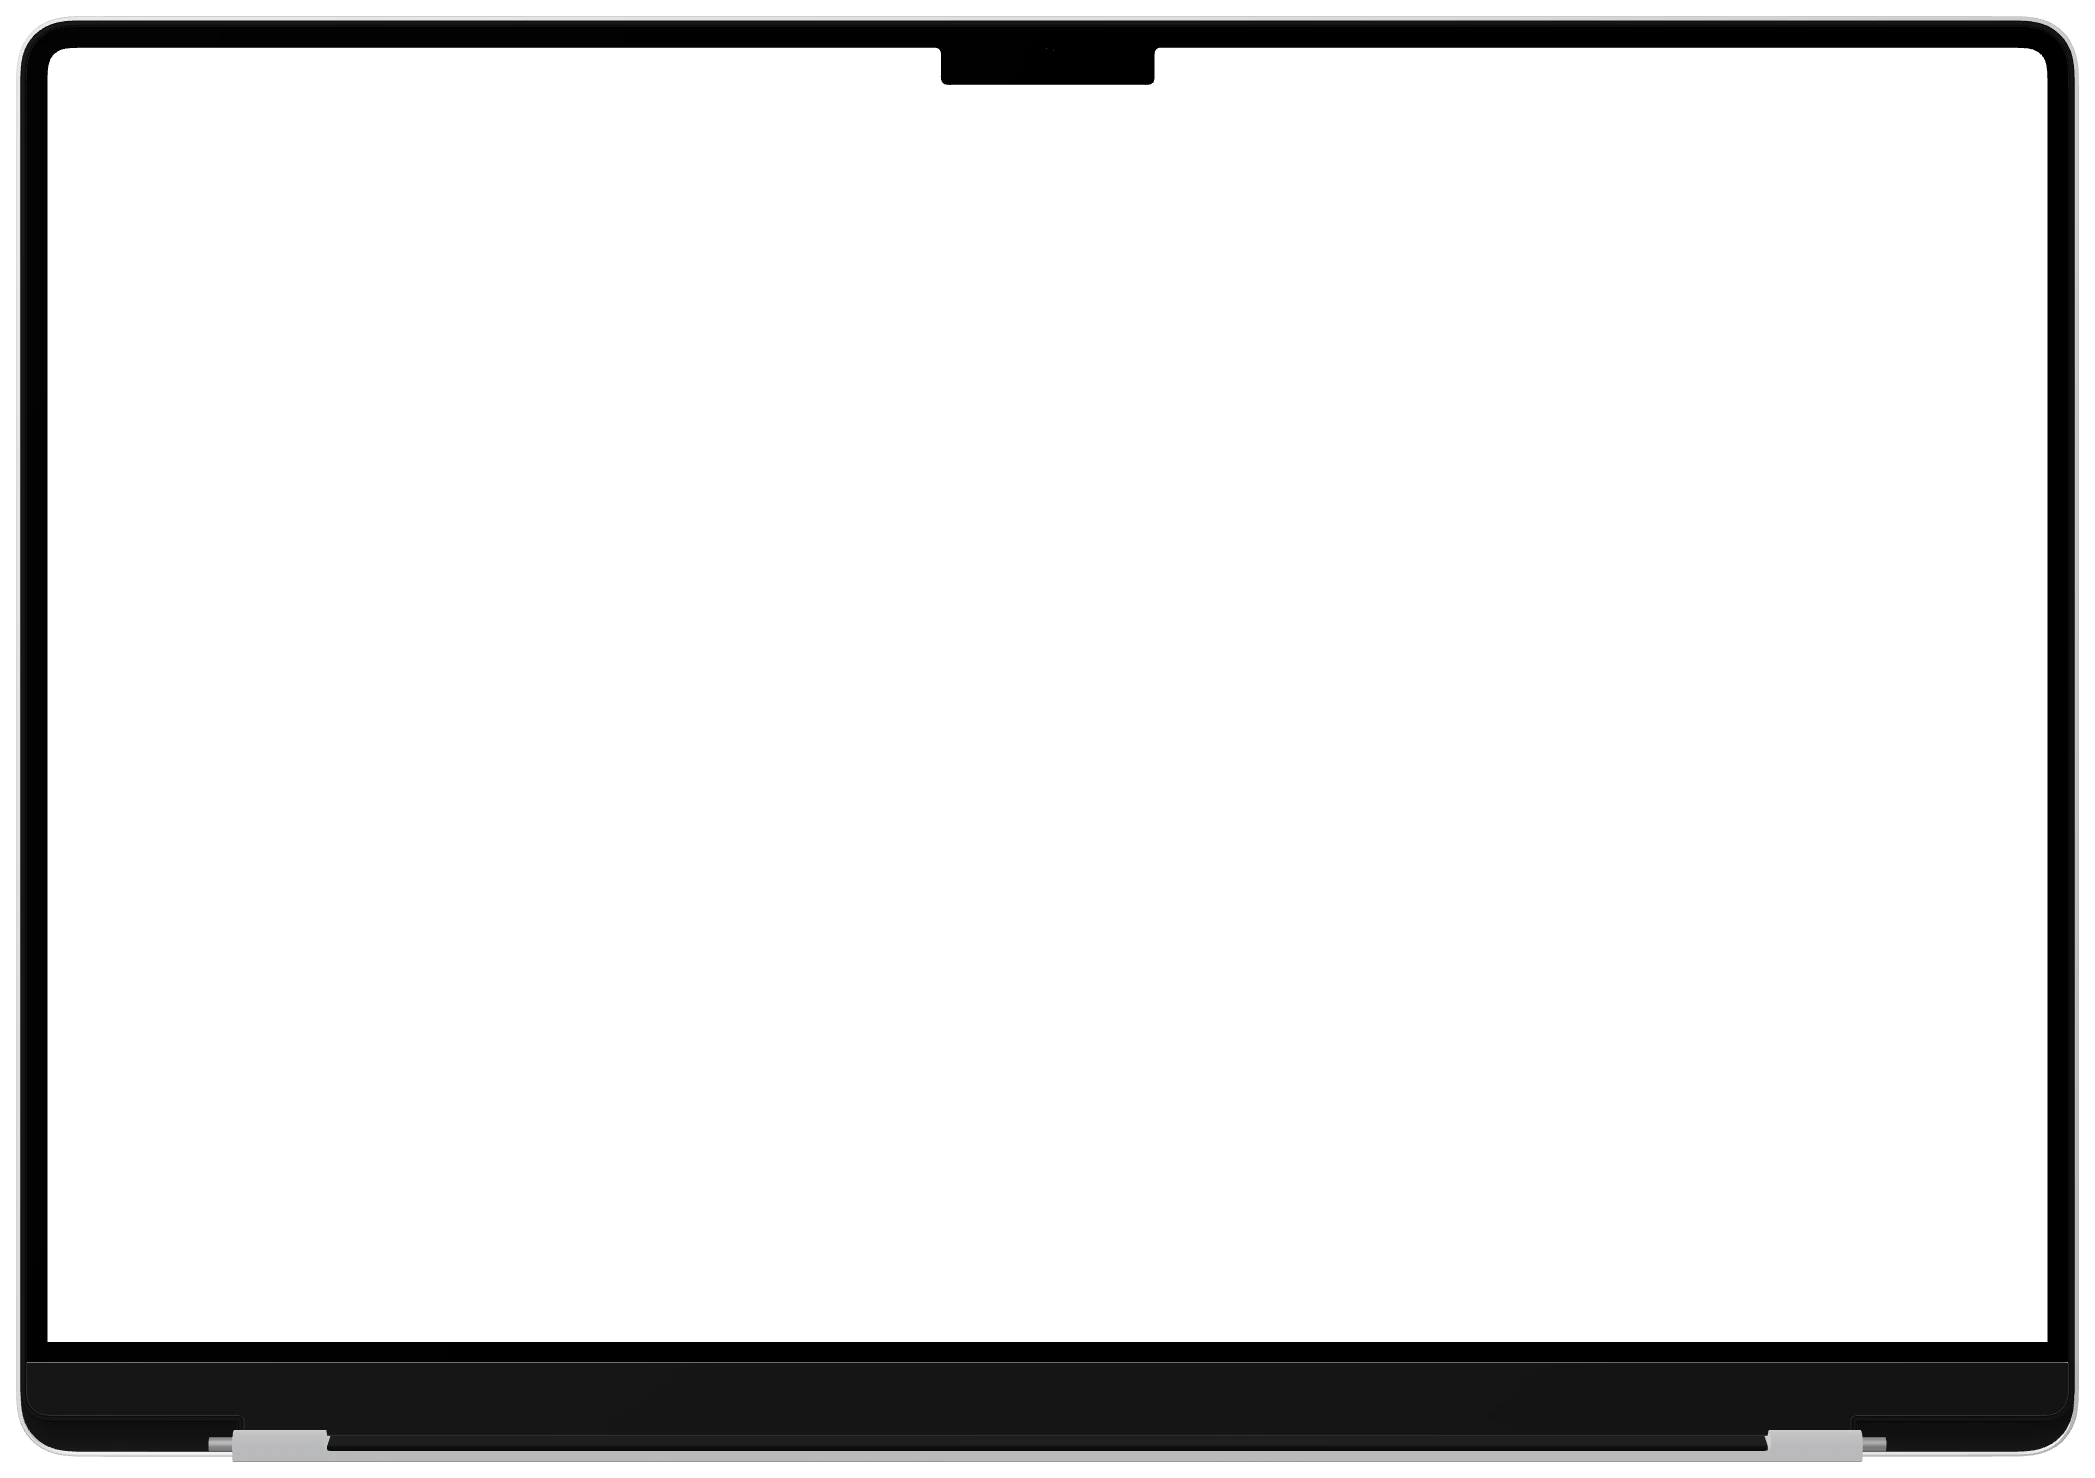
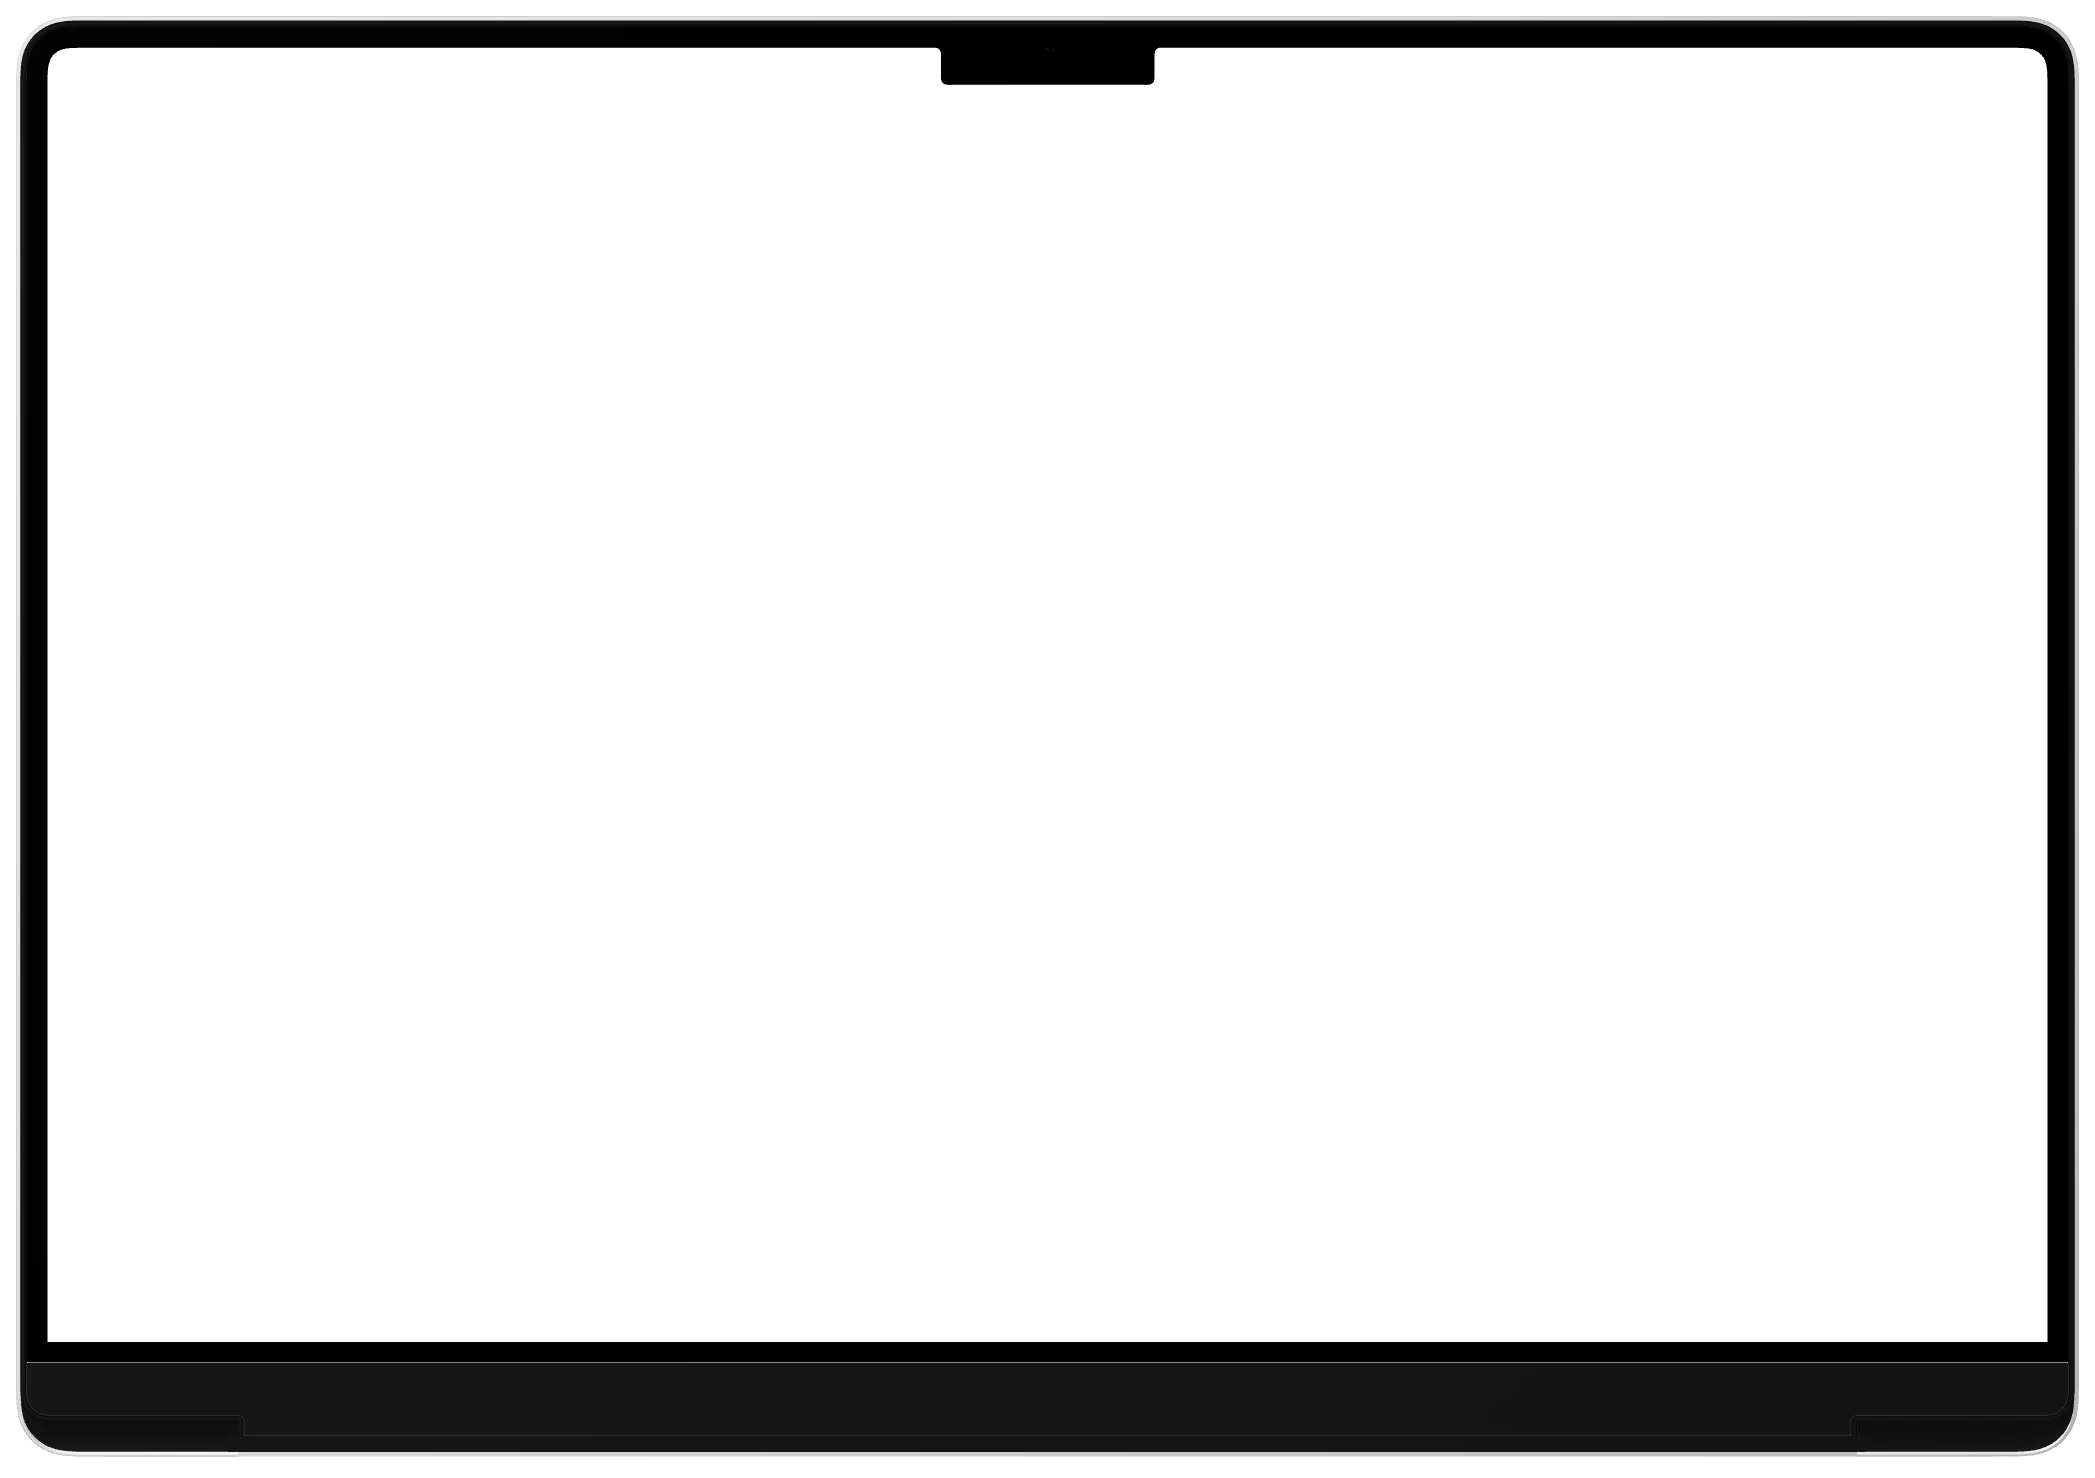
ui: drop the hinge from the 2D MacBook frame
The lid's bezel has a cutout for the hinge, which the hinge, its cover
and the aluminium back showed through. The render now hides them and
fills the cutout with the bezel and its aluminium edge, so the frame is
the lid's outline alone.

Changed region(s): [[0.0931, 0.9648, 0.8998, 0.9959]]

diff --git a/packages/ui/scripts/render-macbook-frame.ts b/packages/ui/scripts/render-macbook-frame.ts
@@ -7,8 +7,8 @@
 //
 // A perspective camera looks square at the screen's center, so the screen's opening is a rectangle
 // the stream fills, while the rest of the MacBook keeps its perspective, as in a photograph. The
-// frame is the lid alone, without the base: a keyboard below the screen would shrink the screen in a
-// viewer's space. The opening is wherever the
+// frame is the lid alone, without the base or the hinge under the lid: a keyboard below the screen
+// would shrink the screen in a viewer's space. The opening is wherever the
 // screen shows, so the notch stays in the frame over its top edge; `notch` reports the share of the
 // opening's height the notch takes; RemoteControl starts the stream at the top, under the notch.
 import * as THREE from 'three';
@@ -37,8 +37,54 @@ const screen = model.getObjectByName('macbook-screen');
 if (!base || !lid || !(screen instanceof THREE.Mesh))
   throw new Error('The model has no macbook-base, macbook-lid or macbook-screen.');
 base.visible = false;
+// The bezel has a cutout along its bottom for the hinge, which the hinge and its cover fill and the
+// aluminium back shows through. Without them the frame is the lid's outline alone: the cover's
+// strip is clipped off under the chin, the back draws only its outside, and a piece of bezel fills
+// the cutout. Measures are in the lid's own units, from the model.
+const bezel = model.getObjectByName('Object_131');
+const cover = model.getObjectByName('Object_111');
+const back = model.getObjectByName('Object_103');
+if (!(bezel instanceof THREE.Mesh) || !(cover instanceof THREE.Mesh) || !(back instanceof THREE.Mesh))
+  throw new Error("The model has no lid bezel, hinge cover or back where it's expected.");
+const CHIN_BOTTOM = 0.09;
+const BEZEL_BOTTOM = -0.71;
+const CUTOUT_HALF_WIDTH = 41;
+const BACK_BOTTOM = -0.94;
+const aluminium = back.material as THREE.Material;
+back.material = (back.material as THREE.Material).clone();
+(back.material as THREE.Material).side = THREE.FrontSide;
+const coverClip = new THREE.Plane(new THREE.Vector3(0, 1, 0), -CHIN_BOTTOM);
+cover.material = (cover.material as THREE.Material).clone();
+(cover.material as THREE.Material).clippingPlanes = [coverClip];
+const fill = new THREE.Mesh(
+  new THREE.PlaneGeometry(2 * CUTOUT_HALF_WIDTH, CHIN_BOTTOM - BEZEL_BOTTOM),
+  bezel.material as THREE.Material,
+);
+fill.position.set(0, (CHIN_BOTTOM + BEZEL_BOTTOM) / 2, -1.8);
+lid.add(fill);
+const backEdge = new THREE.Mesh(
+  new THREE.PlaneGeometry(2 * CUTOUT_HALF_WIDTH, BEZEL_BOTTOM - BACK_BOTTOM),
+  aluminium,
+);
+backEdge.position.set(0, (BEZEL_BOTTOM + BACK_BOTTOM) / 2, -1.85);
+lid.add(backEdge);
+// The hinge itself is the lid's other parts under the screen that are narrower than it.
+const lidBox = (object: THREE.Mesh) => {
+  object.geometry.computeBoundingBox();
+  return object.geometry.boundingBox!.clone().applyMatrix4(object.matrix);
+};
+const screenInLid = lidBox(screen);
+for (const object of lid.children) {
+  if (!(object instanceof THREE.Mesh) || object === screen || object === fill || object === backEdge)
+    continue;
+  const box = lidBox(object);
+  if (box.max.y < screenInLid.min.y && box.max.x - box.min.x < screenInLid.max.x - screenInLid.min.x) {
+    object.visible = false;
+  }
+}
 lid.rotation.x = lidRotation(LID_DEGREES);
 model.updateMatrixWorld(true);
+coverClip.applyMatrix4(lid.matrixWorld);
 
 // The screen faces along the lid's turned z axis; its up is the lid's turned y axis.
 const turn = new THREE.Quaternion().setFromAxisAngle(new THREE.Vector3(1, 0, 0), lid.rotation.x);
@@ -86,6 +132,7 @@ camera.setViewOffset(
 
 const renderer = new THREE.WebGLRenderer({ antialias: true, alpha: true, preserveDrawingBuffer: true });
 renderer.setPixelRatio(1);
+renderer.localClippingEnabled = true;
 renderer.setSize(width, height, false);
 renderer.outputColorSpace = THREE.SRGBColorSpace;
 renderer.setClearColor(0x000000, 0);
